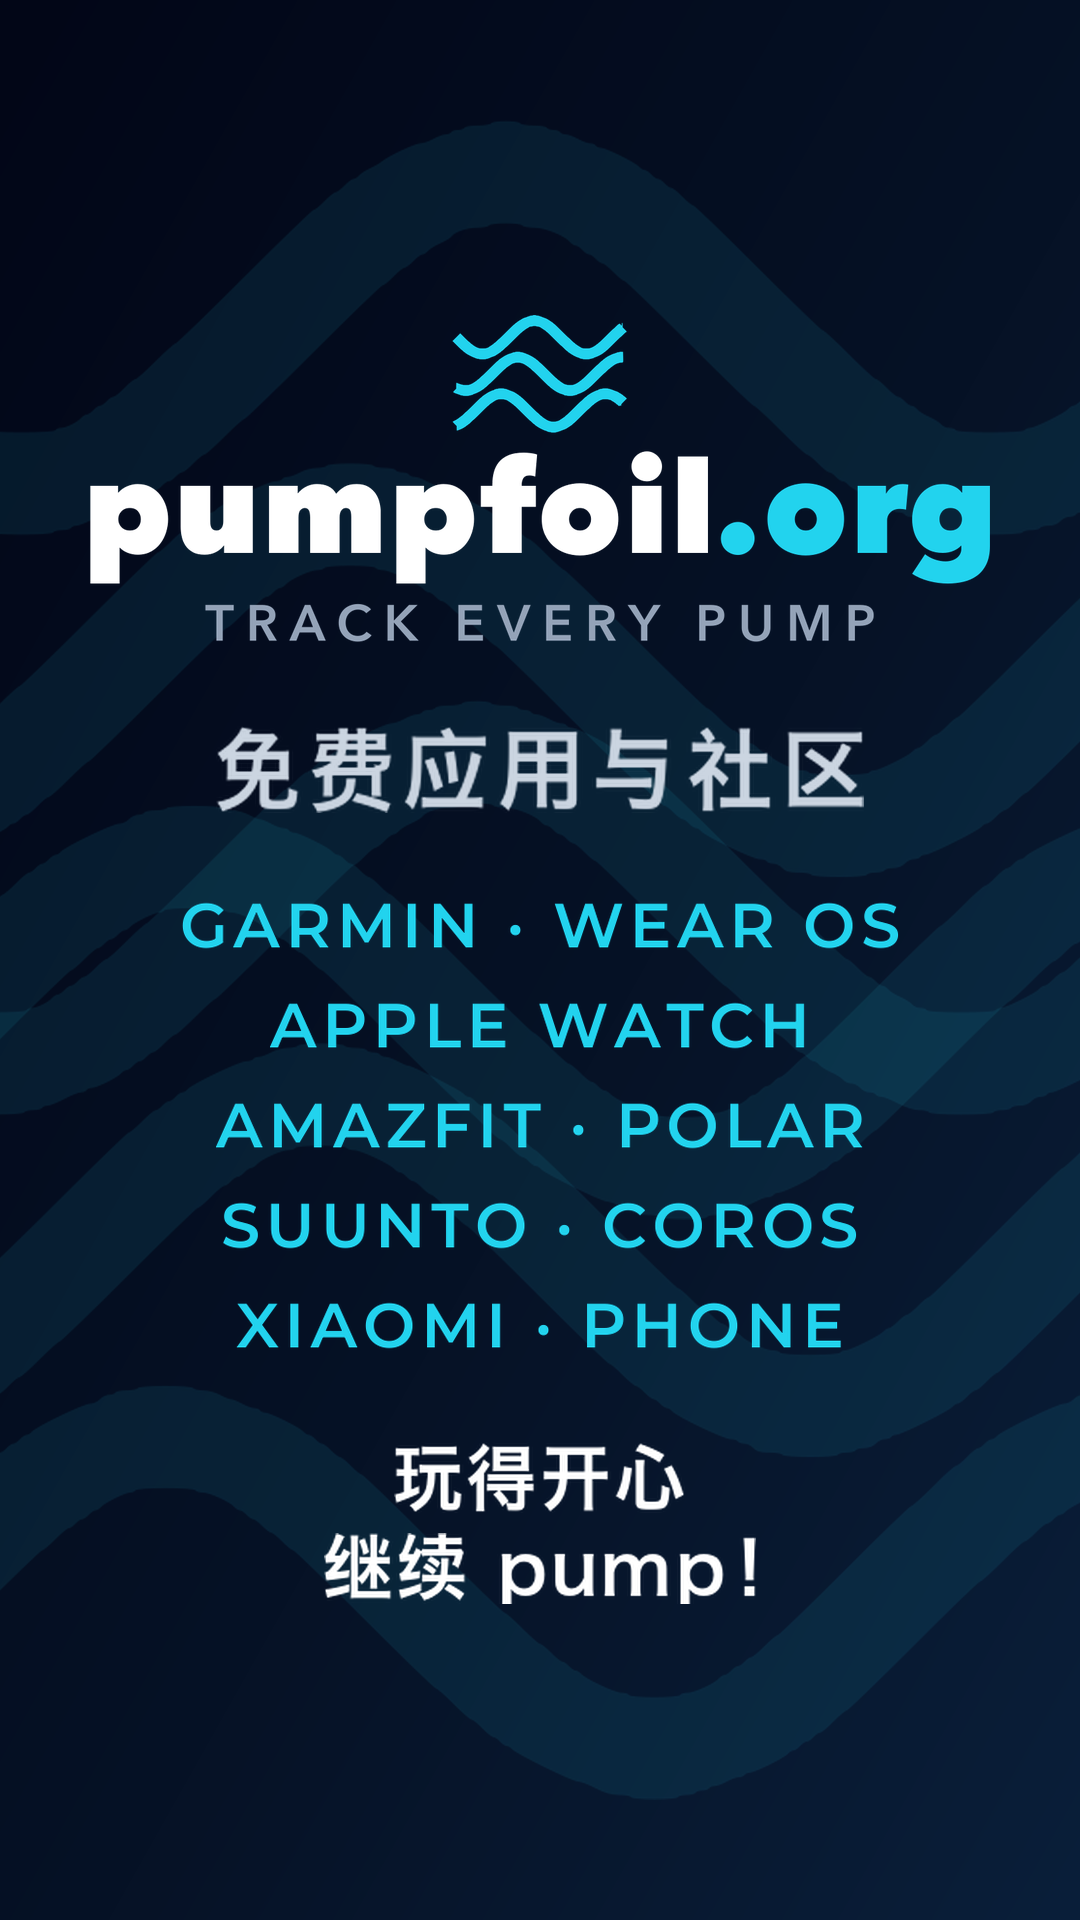
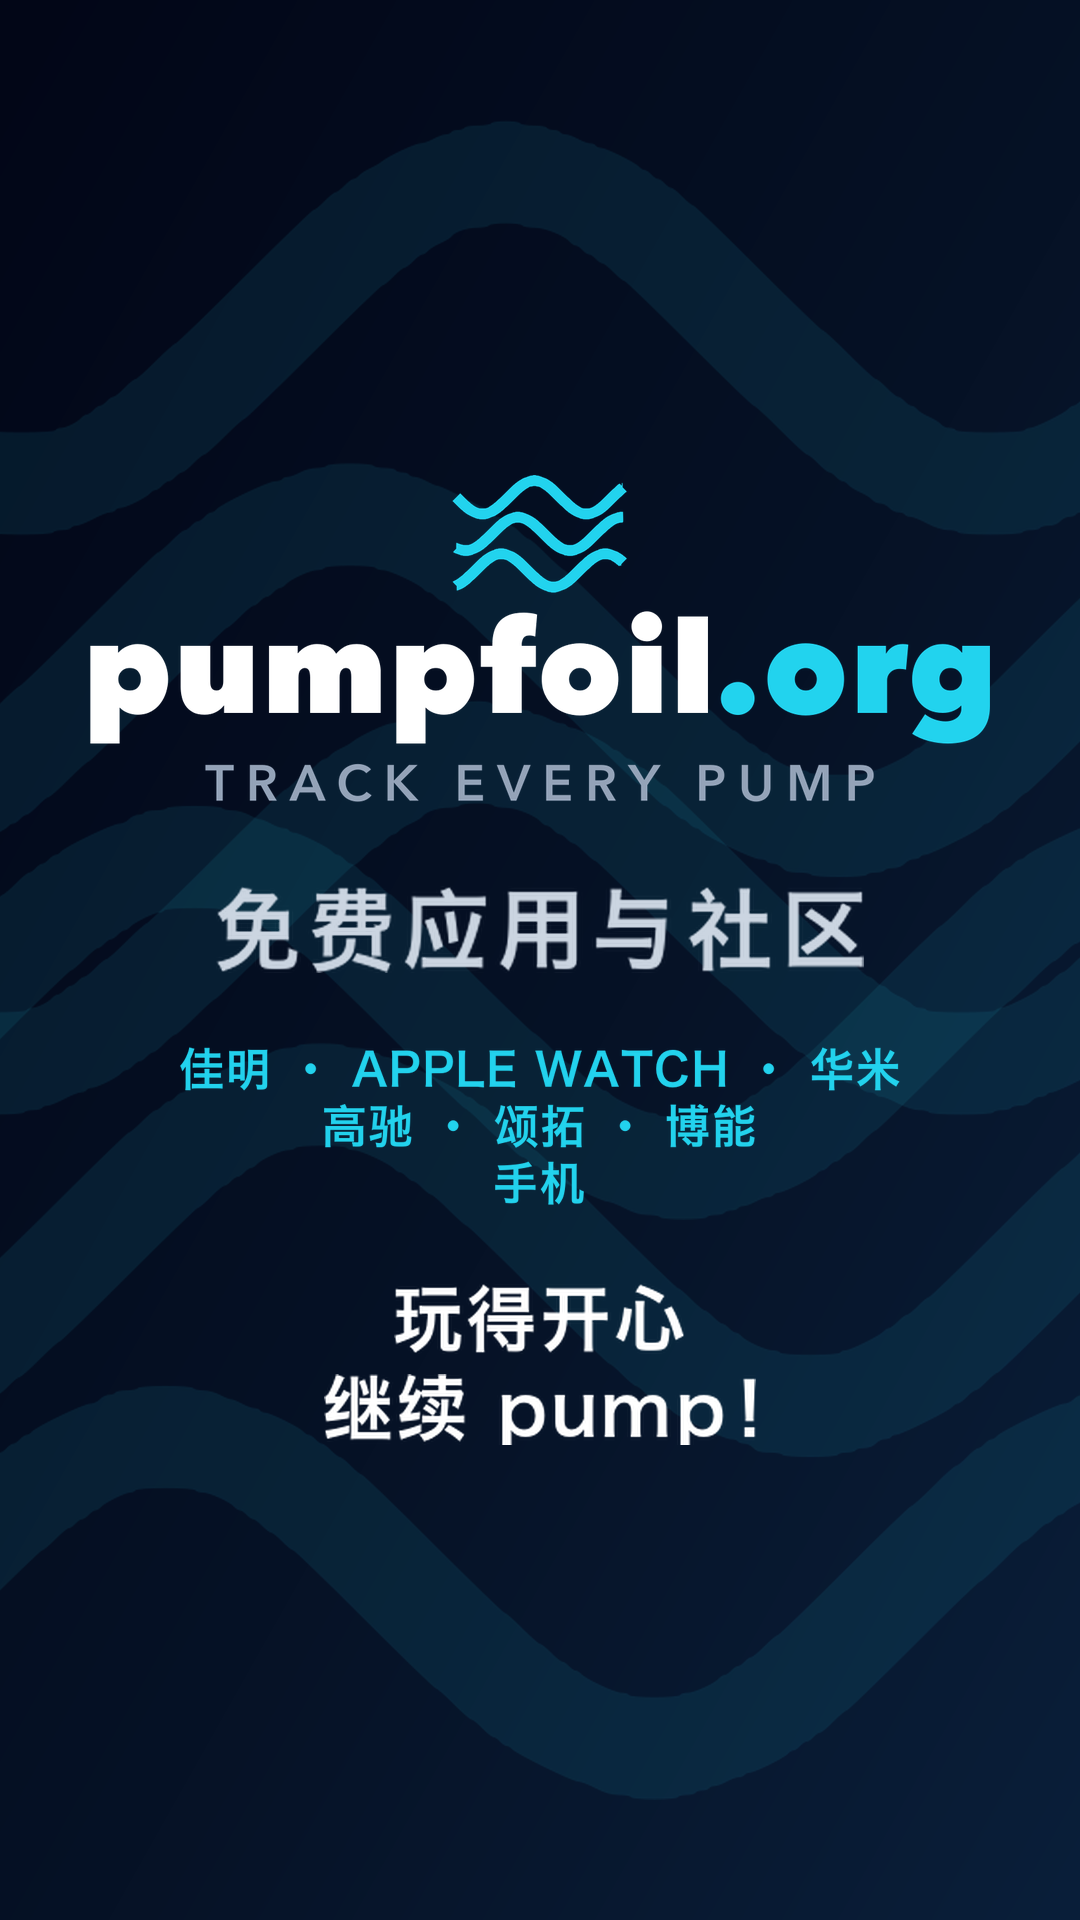
Chinesische Endcard: die Uhrenliste ist die fuer China, nicht die uebersetzte Weltliste
Jans Frage: bleiben die Uhren lateinisch? Nein — und zwei gehoeren dort gar
nicht auf die Karte. Die Liste folgt jetzt der Tabelle aus
social-media/REDNOTE.md statt banner.SUBLINE:

- Wear OS faellt weg. Google ist in China gesperrt, das erreicht dort niemanden.
- 小米 Xiaomi faellt weg. Unsere Anbindung laeuft ueber Mi Fitness -> Suunto,
  und die gibt es laut unserer eigenen App-Doku "worldwide except in China".
  Xiaomi zu nennen waere ein Versprechen, das beim ersten Versuch bricht —
  ausgerechnet vor dem Publikum, das die Marke am besten kennt.
- Der Rest steht mit seinem chinesischen Namen da, danach wird dort gesucht:
  佳明 Garmin, 华米 Amazfit, 高驰 COROS, 颂拓 Suunto, 博能 Polar. Apple Watch
  bleibt lateinisch, das schreibt in China auch niemand um. PHONE wird 手机.

Gruppiert nach Art der Anbindung (App auf der Uhr / Konto / ganz ohne Uhr) —
das ergibt zugleich aehnlich breite Zeilen. Eine gemischte Aufteilung liess die
reinen CJK-Zeilen schrumpfen, weil sich alle nach der breitesten richten.

Dazu ein Fehler von vorhin: zh_zeile() zeichnet weiss, subline_image() faerbt
schon in Marken-Cyan — auf dunklem Grund stand die Liste deshalb weiss statt
cyan. Jetzt wird immer umgefaerbt, wenn die Farbe nicht schon stimmt.

Changed region(s): [[0.0611, 0.1562, 0.9167, 0.8438]]

diff --git a/brand/master/endcard.py b/brand/master/endcard.py
@@ -48,6 +48,27 @@ MOTTO = ("have fun", "keep pumping!")
 # steht es auch in unseren chinesischen Captions, uebersetzt sucht es niemand.
 APP_ZEILE_ZH = "免费应用与社区"
 MOTTO_ZH = ("玩得开心", "继续 pump！")
+
+# Die Plattform-Liste ist auf der chinesischen Fassung NICHT die uebersetzte
+# Weltliste (banner.SUBLINE), sondern die Liste fuer China aus
+# social-media/REDNOTE.md. Zwei Marken fallen dort bewusst weg:
+#   Wear OS — Google ist in China gesperrt, erreicht dort niemanden.
+#   小米 Xiaomi — unsere Anbindung laeuft ueber Mi Fitness -> Suunto, und die
+#     gibt es laut unserer eigenen App-Doku „worldwide except in China".
+#     Xiaomi zu nennen waere ein Versprechen, das beim ersten Versuch bricht,
+#     ausgerechnet vor dem Publikum, das die Marke am besten kennt.
+# Die uebrigen stehen mit ihrem chinesischen Namen da — danach wird dort
+# gesucht: 佳明 Garmin, 华米 Amazfit, 高驰 COROS, 颂拓 Suunto, 博能 Polar.
+# Apple Watch bleibt, wie es ist; das schreibt in China auch niemand um.
+# Gruppiert nach der Art der Anbindung, und das ergibt zugleich aehnlich breite
+# Zeilen: eine ganz gemischte Aufteilung liess die reinen CJK-Zeilen schrumpfen,
+# weil sich alle nach der breitesten richten.
+ZEILEN_ZH = [
+    "佳明 · APPLE WATCH · 华米",   # App auf der Uhr
+    "高驰 · 颂拓 · 博能",           # ueber die Kontoanbindung
+    "手机",                        # ganz ohne Uhr
+]
+
 SPRACHEN = {"": (APP_ZEILE, MOTTO), "-zh": (APP_ZEILE_ZH, MOTTO_ZH)}
 # Montserrat hat keine CJK-Zeichen und zeichnete nur Kaestchen. Reihenfolge:
 # Linux zuerst (dort laeuft dieses Skript), dann die Macs.
@@ -126,7 +147,8 @@ def endcard(theme: str, sp: str = "") -> Image.Image:
     # auf einem Handy und ist drei Sekunden zu sehen; neun Namen in zwei Zeilen kann dort niemand
     # lesen (Jan, 04.09.). Weniger Zeichen je Zeile heisst groessere Schrift bei gleicher Breite.
     # Die Quelle bleibt dieselbe wie im Banner, nur die Umbruch-Regel unterscheidet sich.
-    zeilen = [banner.subline_image(z, px=64, tracking=6) for z in banner.subline_zeilen(2)]
+    zeilen = [zeile_bild(z, px=64, tracking=2 if zh else 6)
+              for z in (ZEILEN_ZH if zh else banner.subline_zeilen(2))]
     # 80 % der Breite: die Markennamen sollen lesbar sein, aber die Zeile „FREE APP & COMMUNITY"
     # darueber traegt die Aussage — sie steht auf voller Breite (Jan, 04.09.).
     faktor = (breite * 0.80) / max(z.width for z in zeilen)
@@ -144,9 +166,12 @@ def endcard(theme: str, sp: str = "") -> Image.Image:
     einleitung = voll
     zeilen = [z.resize((round(z.width * faktor), round(z.height * faktor)), Image.LANCZOS)
               for z in zeilen]
-    if hell:
-        # subline_image faerbt in Marken-Cyan; auf hellem Grund umfaerben statt neu zu rendern.
-        r, g, b = banner._hex(CYAN_HELL)
+    # subline_image faerbt schon in Marken-Cyan, zh_zeile zeichnet weiss. Auf
+    # hellem Grund braucht es ohnehin die dunklere Stufe. Also: umfaerben statt
+    # neu rendern, und zwar immer dann, wenn die Farbe nicht schon stimmt.
+    zeilen_farbe = CYAN_HELL if hell else (gen.CYAN if zh else None)
+    if zeilen_farbe:
+        r, g, b = banner._hex(zeilen_farbe)
         for i, z in enumerate(zeilen):
             voll = Image.new("RGBA", z.size, (r, g, b, 255))
             voll.putalpha(z.split()[3])
